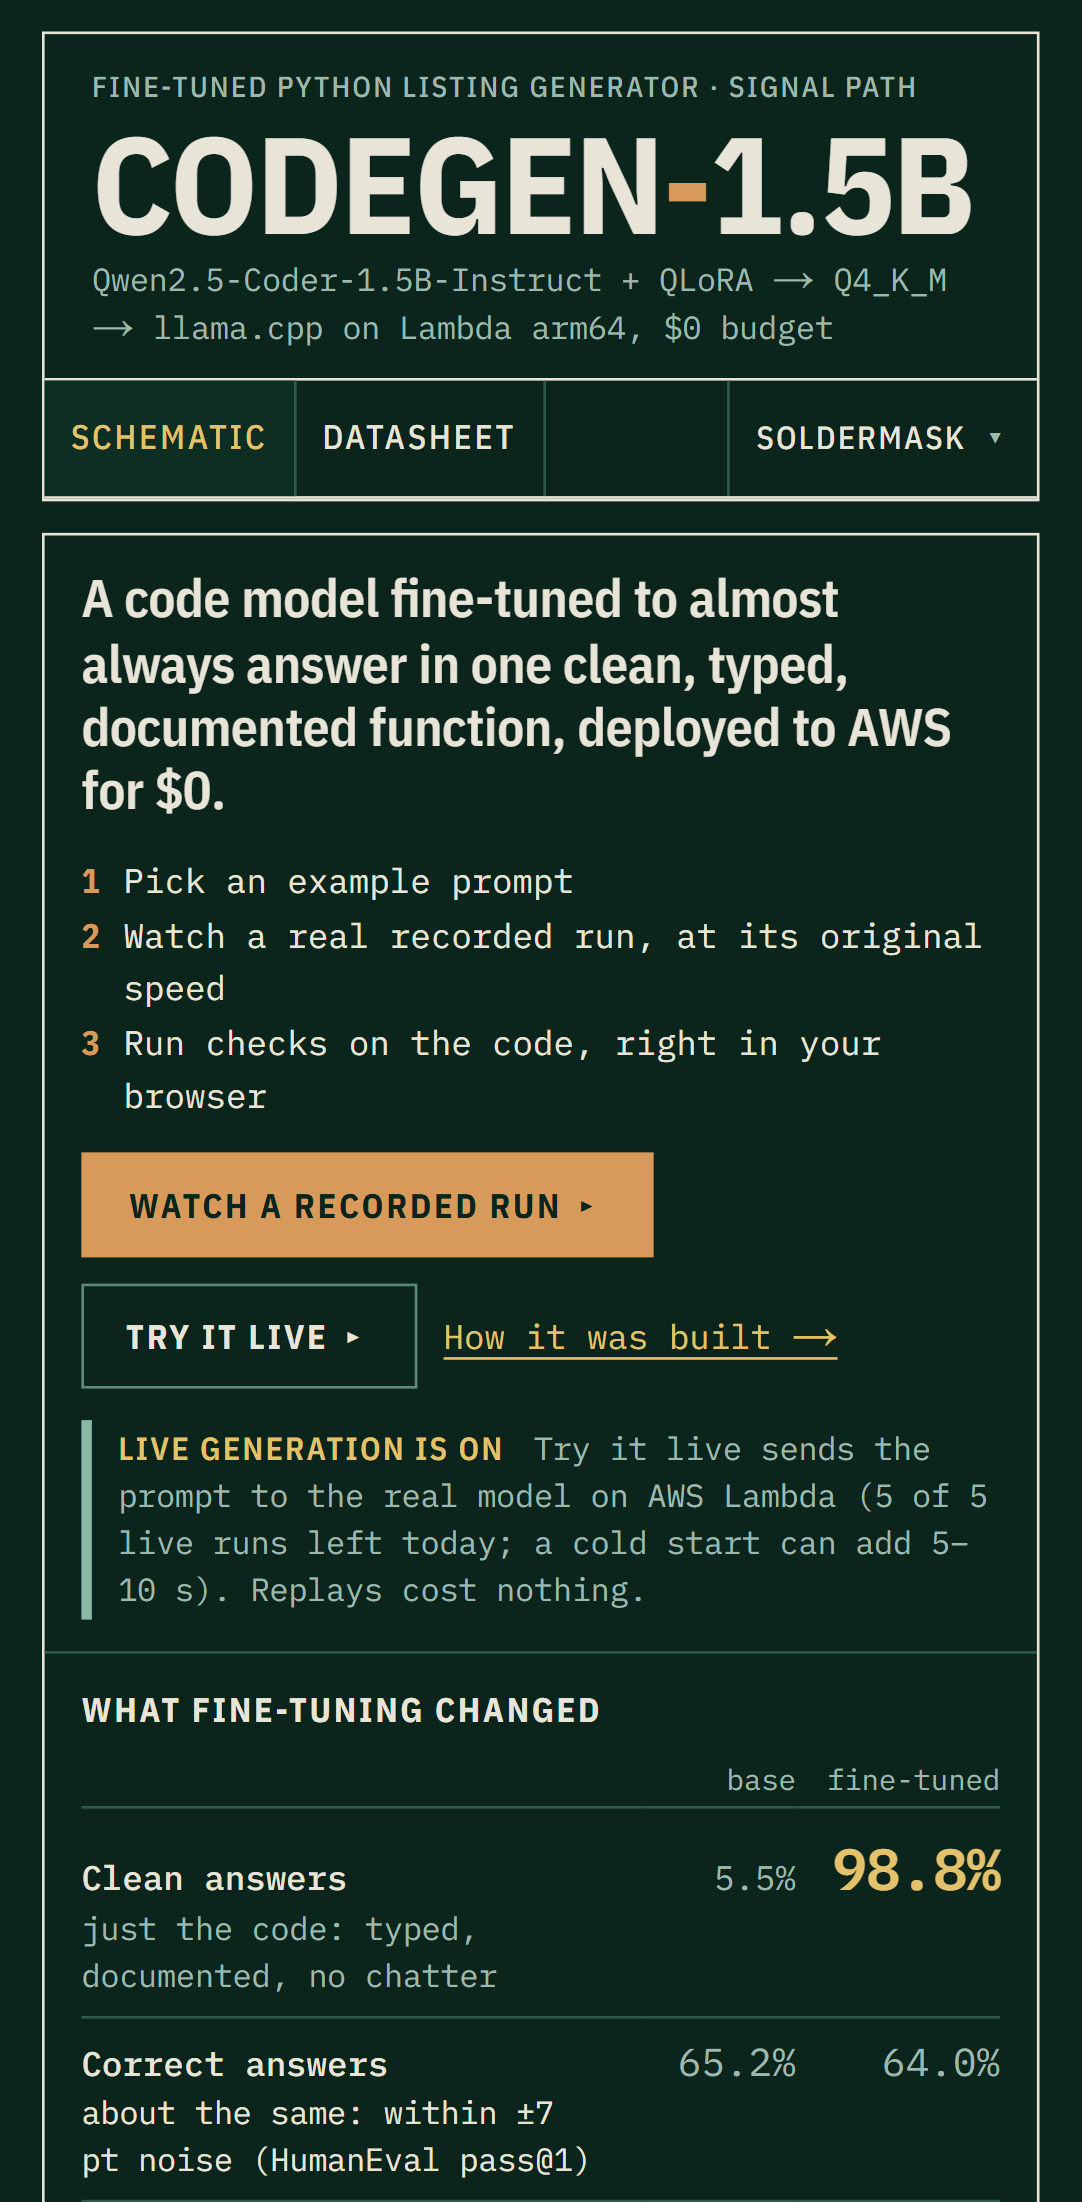
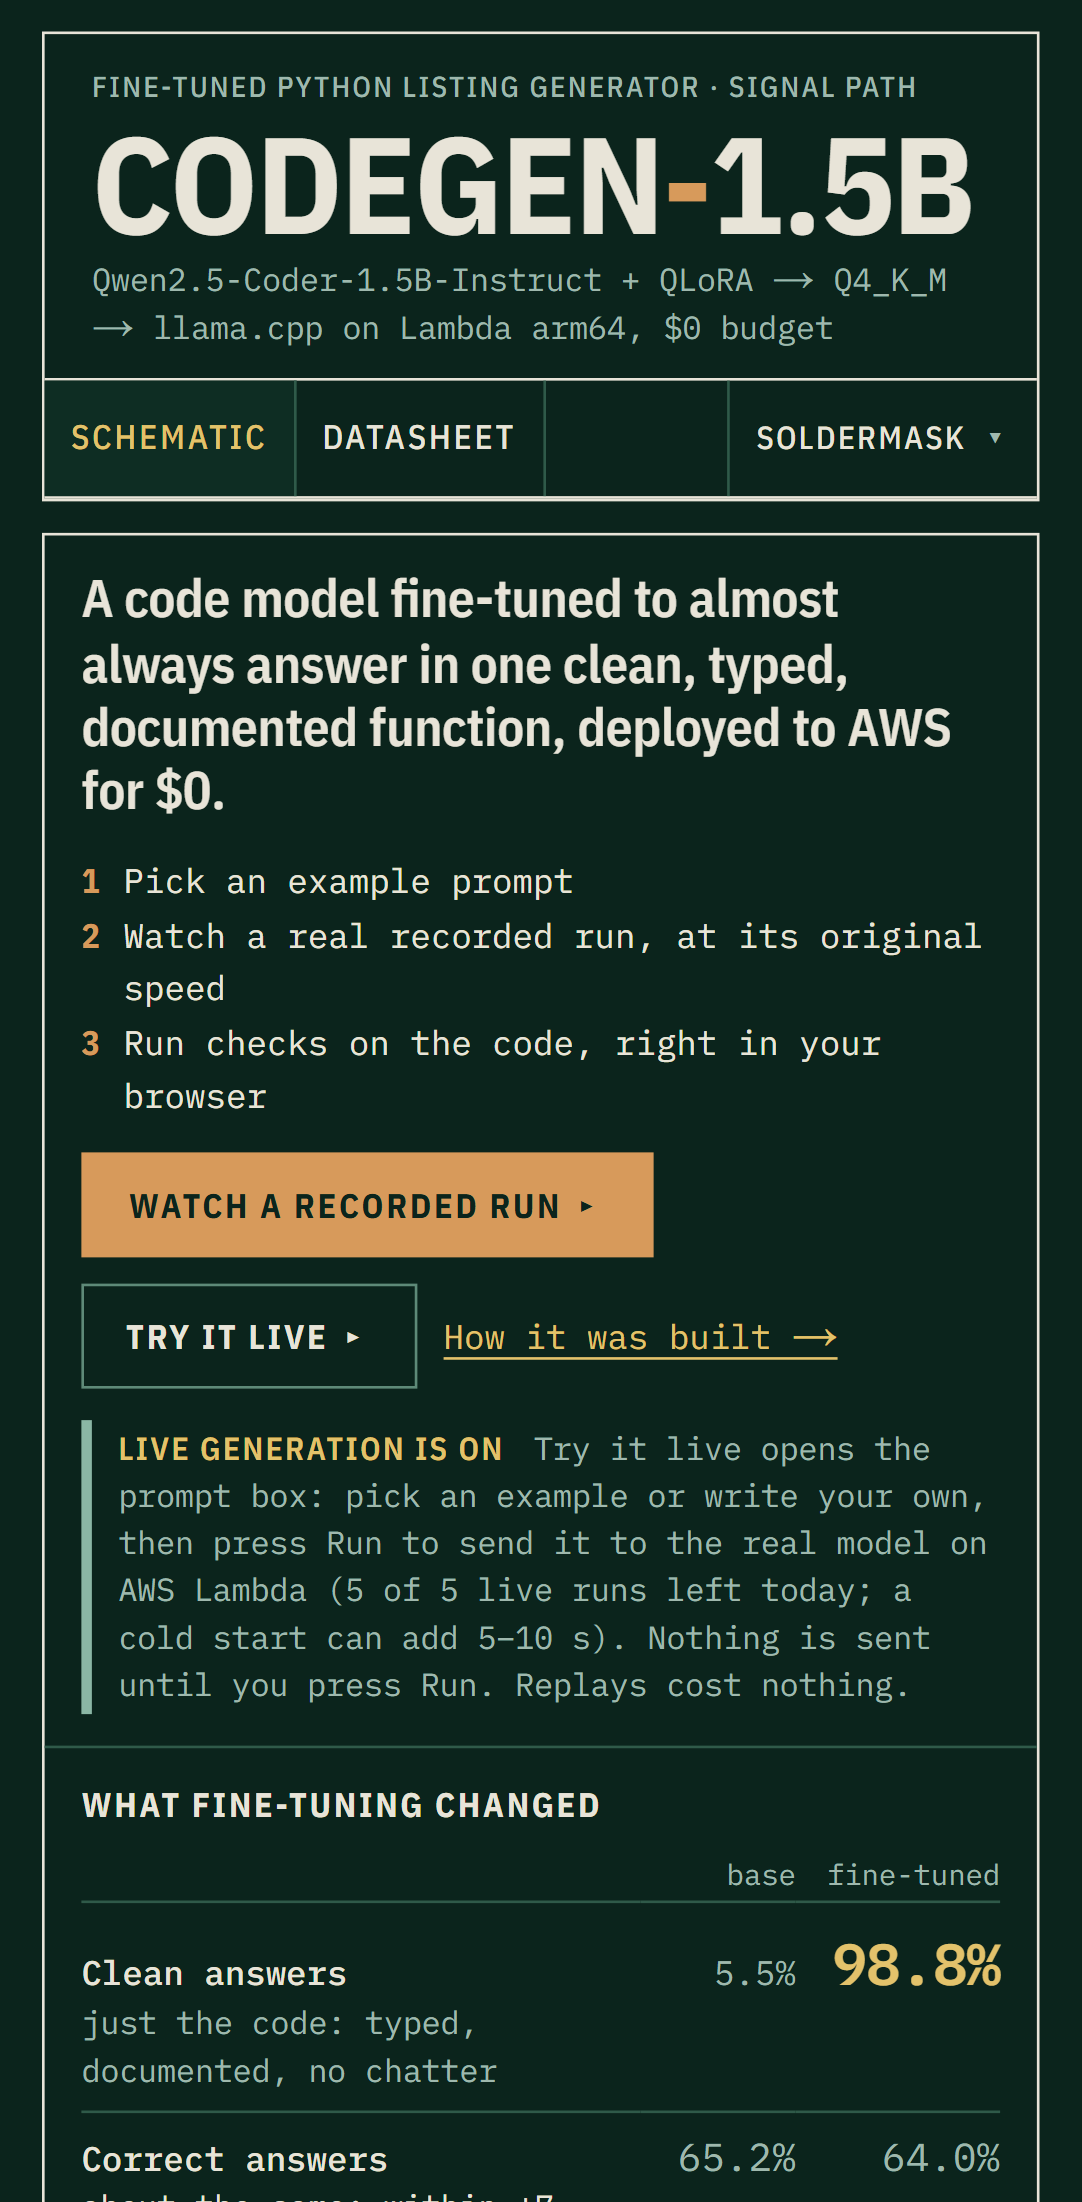
Live mode reopened after the Try it live fix; screenshots and checks updated
- Verified against the real backend on the deployed build (URL locked): Try it
  live and choosing an example sent nothing; Run sent one request carrying the
  chosen prompt (palindrome); the answer passed 5/5. Then reopened; on the public
  site nothing is sent on load, Try it live or an example.
- private-live.spec.ts: asserts nothing is sent until Run and that the request
  carries the chosen example, not the default.
- livemock.spec.ts: cold-start test holds the response 8 s and allows 6 s for the
  notice (it appears at 1.5 s; the 4 s / 3 s margin flaked once under load).
- README desktop and phone screenshots retaken with the current intro wording.
- runbook: live since 02:44 UTC, the pause and the fix recorded.

diff --git a/frontend/tests/e2e/private-live.spec.ts b/frontend/tests/e2e/private-live.spec.ts
@@ -6,26 +6,36 @@ import { expect, test } from "./fixtures";
 // status.json is answered here with live=true so the page offers Try it live.
 test.skip(!process.env.PRIVATE_PROXY, "set PRIVATE_PROXY with the signing proxy running and the app kill switch off");
 
-test("Try it live, end to end against the real model: streams, finishes cleanly, checks pass", async ({ page }, info) => {
+test("Try it live, end to end against the real model: sends nothing; Run sends the chosen prompt; checks pass", async ({ page }, info) => {
   test.skip(info.project.name !== "desktop", "one real generation is enough");
   test.setTimeout(180_000);
   const proxy = process.env.PRIVATE_PROXY!;
   let sent = 0;
+  const prompts: string[] = [];
   await page.route("**/status.json", (r) => r.fulfill({ contentType: "application/json", body: '{"live": true, "since": "x", "note": "live"}' }));
   await page.route("**/generate", async (r) => {
     if (r.request().method() === "OPTIONS") return r.fulfill({ status: 204, headers: { "access-control-allow-origin": "*", "access-control-allow-headers": "content-type" } });
     sent++;
+    prompts.push(JSON.parse(r.request().postData() ?? "{}").prompt);
     const resp = await r.fetch({ url: `${proxy}/generate`, timeout: 120_000 });
     await r.fulfill({ response: resp, headers: { ...resp.headers(), "access-control-allow-origin": r.request().headers()["origin"] ?? "*" } });
   });
   await page.goto("/");
   await expect(page.getByRole("button", { name: "Replay", exact: true })).toHaveAttribute("aria-pressed", "true");
   await page.getByRole("button", { name: "Try it live ▸" }).click(); // opens the prompt; nothing is sent yet
+  await expect(page.locator("#spec")).toBeFocused();
+  await page.waitForTimeout(3000);
   expect(sent).toBe(0);
+  await page.locator("#controls .chips button").nth(1).click(); // the palindrome example, not the default
+  await expect(page.locator("#spec")).toHaveValue(/palindrome/);
+  await page.waitForTimeout(1000);
+  expect(sent).toBe(0); // picking an example sends nothing either
   await page.locator("#controls").getByRole("button", { name: "Run ▸", exact: true }).click();
   await expect(page.getByText("clean EOS")).toBeVisible({ timeout: 150_000 });
   expect(sent).toBe(1);
-  await expect(page.getByLabel("Generated code")).toContainText("def fibonacci");
+  expect(prompts[0]).toMatch(/palindrome/); // the request the real backend got carried the chosen prompt
+  console.log("prompt sent:", prompts[0]);
+  await expect(page.getByLabel("Generated code")).toContainText(/def \w*palindrome/);
   await expect(page.getByText("server-measured")).toBeVisible();
   await expect(page.locator("#controls")).toContainText(/\d \/ 5 left/); // the backend's remaining count, shown in U2/U1
   await page.screenshot({ path: "test-results/private-live-done.png", fullPage: true });

diff --git a/frontend/tests/e2e/livemock.spec.ts b/frontend/tests/e2e/livemock.spec.ts
@@ -28,10 +28,11 @@ async function live(page: Page, generate: (r: Route) => unknown) {
 const run = (page: Page) => page.locator("#controls").getByRole("button", { name: "Run ▸", exact: true });
 
 test("cold start: the wait says the model is waking up, wherever the visitor is looking", async ({ page }) => {
-  await live(page, async (r) => { await new Promise((ok) => setTimeout(ok, 4000)); await stream(r); });
+  // held 8 s: the notice appears 1.5 s in, so a loaded machine still has a wide margin (4 s once flaked under load)
+  await live(page, async (r) => { await new Promise((ok) => setTimeout(ok, 8000)); await stream(r); });
   await run(page).click();
   const status = page.locator("#controls").getByText(/waking up the model… \d+ s \(usually 5–10 s\)/);
-  await expect(status).toBeVisible({ timeout: 3000 });
+  await expect(status).toBeVisible({ timeout: 6000 });
   await expect(status).toBeInViewport(); // next to the button, so a phone visitor sees it too
   await expect(page.locator("#u3")).toContainText("waking up");
   await expect(page.locator("#u3")).not.toContainText("prefill");

diff --git a/docs/runbook.md b/docs/runbook.md
@@ -4,10 +4,10 @@ Site: **https://d2js86b0xg0ozs.cloudfront.net** (playground and `/notes/`). Back
 
 ## Live and paused (quick reference)
 
-**Current state: paused since 2026-10-29 01:45 UTC** (`infra\scripts\killswitch.ps1 status` is the source of truth).
-It was live from 00:19 to 01:45 UTC and was paused because Try it live sent a request on its own click, with the
-default example prompt; the fix (Try it live only opens the prompt box, Run sends) has to be deployed before it is
-opened again. Nothing switches it on or off on a schedule; only these commands and the circuit breaker do.
+**Current state: live since 2026-10-29 02:44 UTC** (`infra\scripts\killswitch.ps1 status` is the source of truth).
+It was paused from 01:45 to 02:44 UTC because Try it live sent a request on its own click, with the default example
+prompt; fixed in `754cf4f` (Try it live only opens the prompt box; Run sends) and verified against the real backend
+before reopening. Nothing switches it on or off on a schedule; only these commands and the circuit breaker do.
 
 ```powershell
 infra\scripts\killswitch.ps1 on                     # pause: both layers on, status.json -> paused (the site shows recordings)
@@ -51,8 +51,8 @@ in AWS's new sign-up experience: AWS manages its Organization SCPs, and everythi
 - `killswitch.ps1 on` engages both layers. A later `sam deploy` resets layer 2 to the template (`AuthType: NONE`).
 - Both layers cut off traffic but do not stop an invocation already running; the longest is the 90 s function timeout.
 - After the breaker trips, recovery is manual: find the cause, then `killswitch.ps1 off`.
-- The deployed state is whatever `killswitch.ps1 status` says. As of 2026-10-29 01:45 UTC it is paused: layer 1 ON,
-  URL auth AWS_IAM.
+- The deployed state is whatever `killswitch.ps1 status` says. As of 2026-10-29 02:44 UTC it is live: layer 1 OFF,
+  URL auth NONE, reserved concurrency 10.
 
 Concurrency: the account's Lambda limit is **1000** concurrent executions (it was 10 when the backend was built).
 `codegen-backend` has **reserved concurrency 10** (`ReservedConcurrentExecutions` in `backend.yaml`, deployed
@@ -243,8 +243,9 @@ Not in CI: GPU training, real-model evals, the Lambda image and stacks, and the 
   `python infra/scripts/signing_proxy.py` (127.0.0.1 only; signs requests with the operator's credentials) and
   `BASE_URL=<site or local build> PRIVATE_PROXY=http://127.0.0.1:8787 npx playwright test tests/e2e/private-live.spec.ts`;
   afterwards `seed_state.py --kill on`. The proxy hands the answer over in one piece, so the page's first-token time
-  and rate trace are not meaningful in this test (the server-measured numbers are). Run 2026-10-29 (when Try it live still sent on click): it sent
-  one request, 106 tokens, clean EOS, 5/5 checks. The alarm returns to OK on its own about 5 minutes later; the breaker
+  and rate trace are not meaningful in this test (the server-measured numbers are). Run 2026-10-29 after the fix, on the deployed build: Try it live and picking the palindrome example sent nothing;
+  Run sent one request carrying that prompt; the real answer passed 5/5. An earlier run (when Try it live still sent
+  on click) sent one request, 106 tokens, clean EOS, 5/5 checks. The alarm returns to OK on its own about 5 minutes later; the breaker
   only acts on a new transition into ALARM, so check it is OK before relying on it again.
 
 - `frontend`: `npm test`, `npx playwright test`, `node scripts/contrast.mjs` (see "Deploy the frontend").
